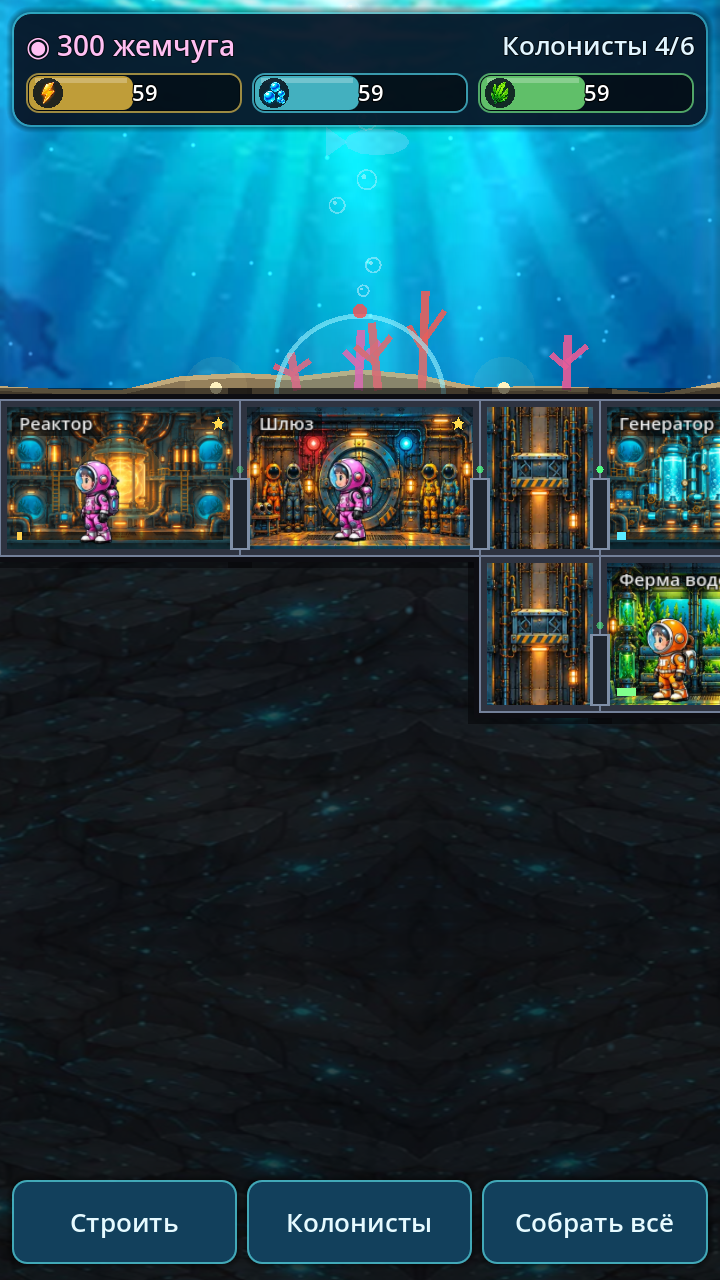
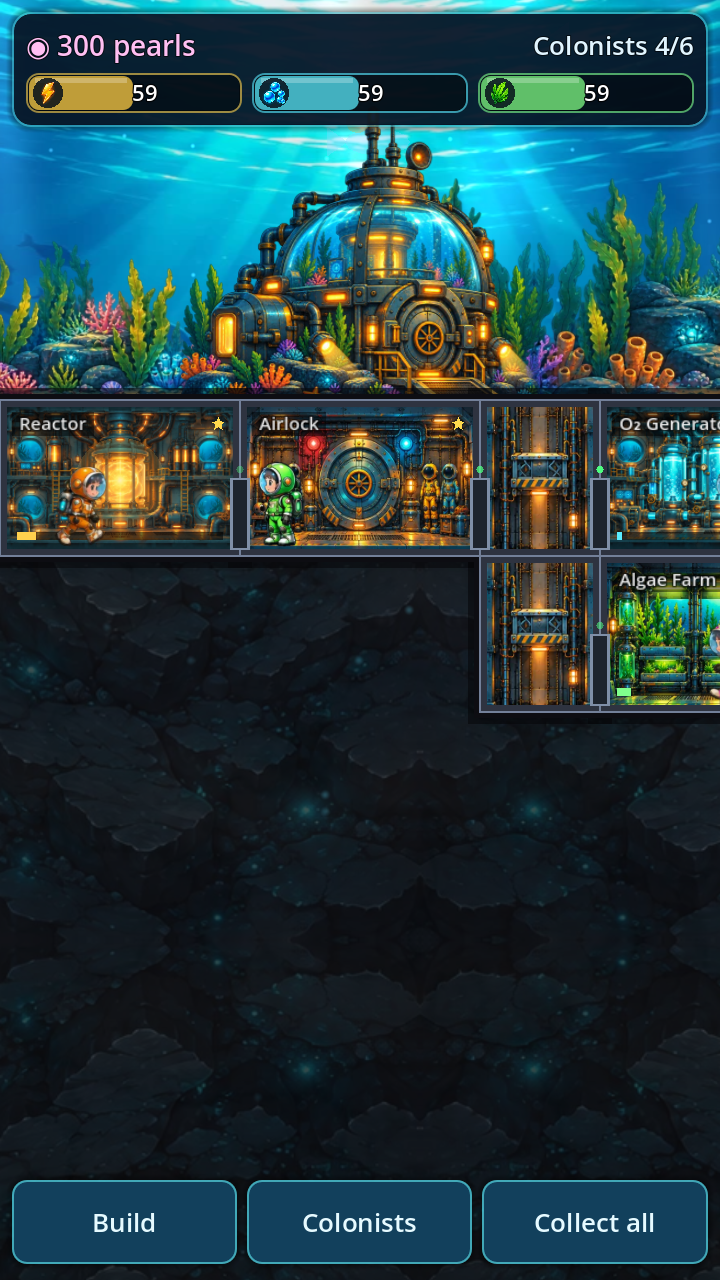
Игра на английском, строки обёрнуты в tr() для будущих переводов
Claude-Session: https://claude.ai/code/session_01Gzv6rseeD6rLRgwoFsQ4fS

diff --git a/README.md b/README.md
@@ -1,6 +1,6 @@
-# Глубина
+# Deep Colony (Глубина)
 
-Мобильная игра (Android / iOS) — симулятор подводной колонии в разрезе, в духе Fallout Shelter.
+Мобильная игра на английском (Android / iOS) — симулятор подводной колонии в разрезе, в духе Fallout Shelter.
 Строй отсеки на дне океана, распределяй колонистов, следи за энергией, кислородом и едой, опускайся всё глубже.
 
 <p>
